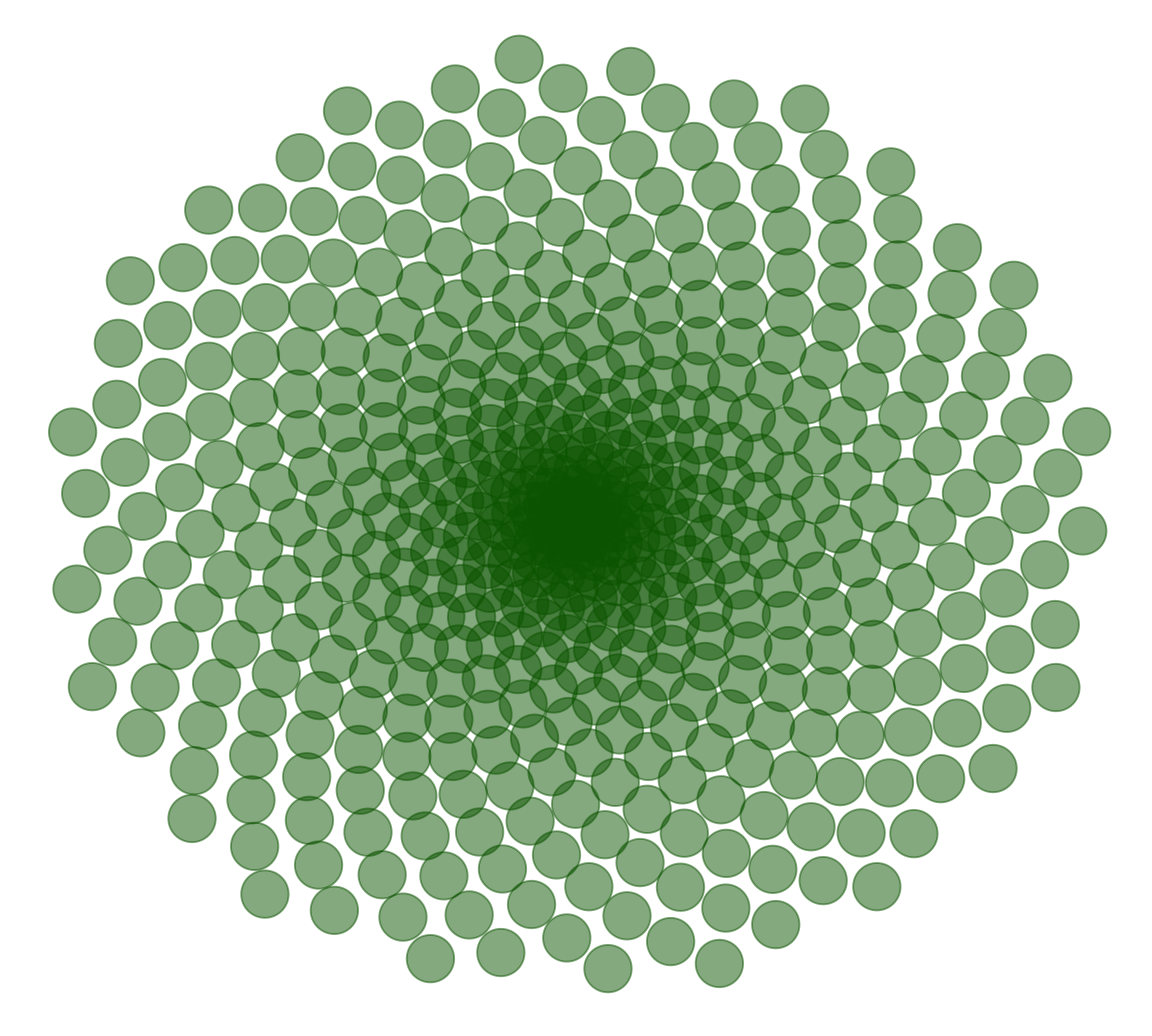
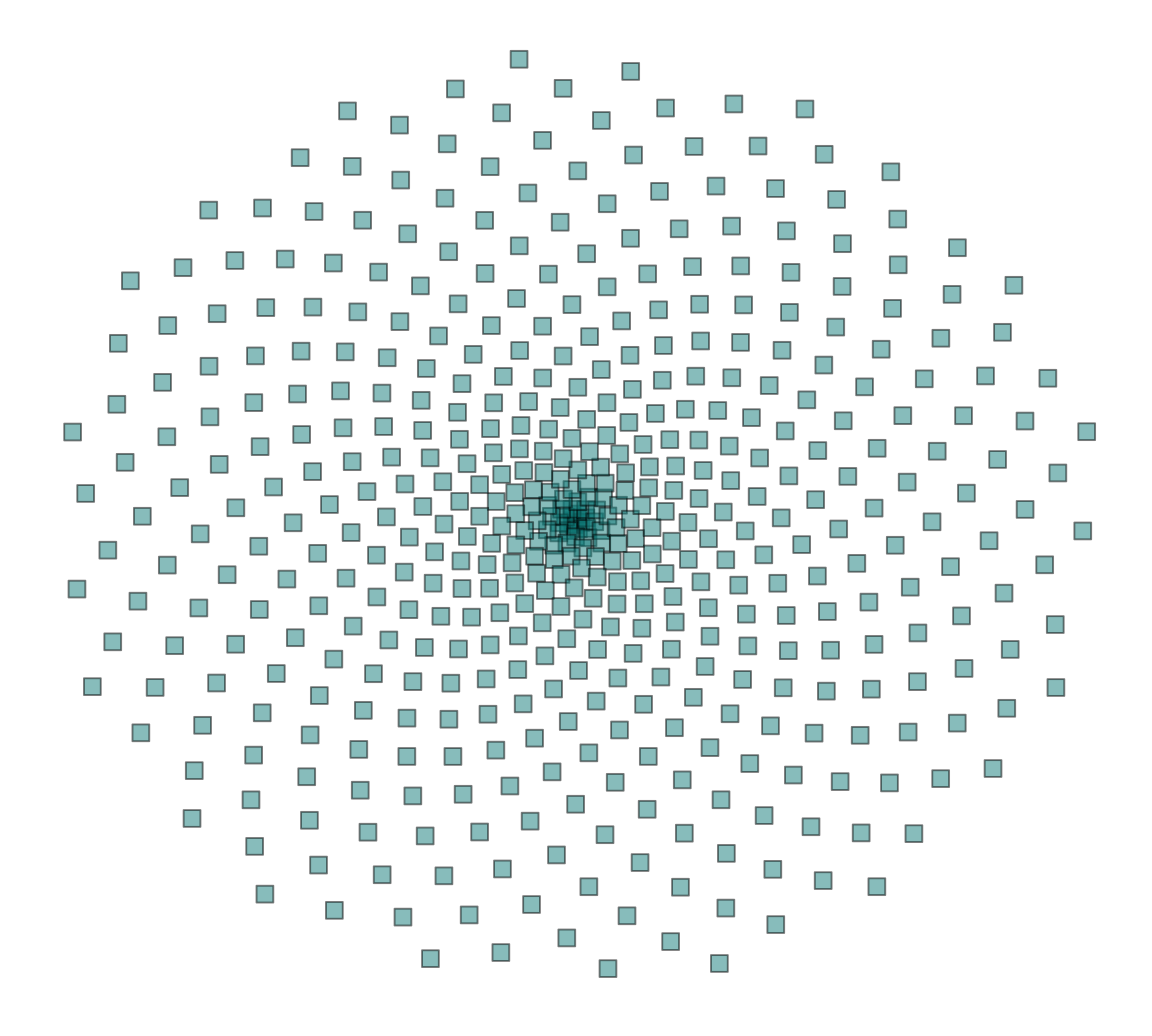
edits

diff --git a/flower.html b/flower.html
@@ -274,11 +274,14 @@ $(document).ready(function () {
 
 
 <p>For the love of arts, I’m going to make a flower in R.</p>
-<p>Let’s start by drawing 50 points on a circle of radius 1. As every (x, y) point should be in the unit circle, it follows that x² + y² = 1.We can get this using the Pythagorean trigonometric identity which states that sin²(θ) + cos²(θ) = 1 for any real number θ.</p>
-<pre class="r"><code>t &lt;- seq(0, 2*pi, length.out = 50)
+<p>Let’s start by drawing 50 points on a circle of radius 1. As every (x, y) point should be in the unit circle, it follows that x² + y² = 1. We can get this using the Pythagorean trigonometric identity which states that sin²(θ) + cos²(θ) = 1 for any real number θ.</p>
+<p>It is important to know that in <code>geom_point</code>, the size of the circles are related to the coordinate system and not to a separate scale. So you don’t specify the radius. We will how to radius later.</p>
+<pre class="r"><code>library(tidyverse)
+
+t &lt;- seq(0, 2*pi, length.out = 50)
 x &lt;- sin(t)
 y &lt;- cos(t)
-df &lt;- data.frame(t, x, y)
+df &lt;- tibble(t, x, y)
 
 # Make a scatter plot of points in a circle
 p &lt;- ggplot(df, aes(x, y))
@@ -286,9 +289,9 @@ p + geom_point()</code></pre>
 <p><img src="flower_files/figure-html/unnamed-chunk-1-1.png" width="80%" /></p>
 <div id="golden-angle" class="section level2">
 <h2>Golden Angle</h2>
-<p>Plants arrange their leaves in spirals. A spiral is a curve which starts from the origin and moves away from this point as it revolves around it. In the plot above all our points are at the same distance from the origin. A simple way to arrange them in a spiral is to multiply x and y by a factor which increases for each point. We could use t as that factor, as it meets these conditions, but we will do something more harmonious. We will use the Golden Angle:</p>
+<p>The arrangement of leaves and many other things in nature is spiral. Check out <a href="https://en.wikipedia.org/wiki/Patterns_in_nature">this</a> article on patterns in nature. A spiral starts from the origin and moves away from this point as it revolves around it. In the plot above all our points are at the same distance from the origin. A simple way to arrange them in a spiral is to multiply x and y by a factor which increases for each point. We could use t as that factor, as it meets these conditions, but we will do something more harmonious. We will use the Golden Angle:</p>
 <p><strong>Golden Angle = π(3 − √5)</strong></p>
-<p>This number is inspired by the Golden Ratio, one of the most famous numbers in the history of mathematics. Both the Golden Ratio and the Golden Angle appear in unexpected places in nature. Apart of flower petals and plant leaves, you’ll find them in seed heads, pine cones, sunflower seeds, shells, spiral galaxies, hurricanes, etc.</p>
+<p>This number is inspired by the <a href="https://en.wikipedia.org/wiki/Golden_ratio">Golden Ratio</a>, one of the most famous numbers in the history of mathematics. Apart of flower petals and plant leaves, you’ll find them in seed heads, pine cones, sunflower seeds, shells, spiral galaxies, hurricanes, etc.</p>
 <pre class="r"><code># Defining the number of points
 points = 500
 
@@ -338,56 +341,20 @@ p + geom_point() + theme(legend.position = &quot;none&quot;,
 </div>
 <div id="coloring" class="section level2">
 <h2>Coloring</h2>
-<p>Simply playing around the color schemes to get a good feel</p>
+<p>Simply playing around the <a href="http://sape.inf.usi.ch/quick-reference/ggplot2/colour">color schemes</a> and <a href="http://sape.inf.usi.ch/quick-reference/ggplot2/shape">shapes</a> to get a good feel.</p>
 <pre class="r"><code>p &lt;- ggplot(df, aes(x*t, y*t))
-p + geom_point(size = 8, alpha = 0.5, color = &quot;darkgreen&quot;) + theme(legend.position = &quot;none&quot;,
+p + geom_point(size = 3, alpha = 0.5, shape = 22, fill = &quot;darkcyan&quot;) + theme(legend.position = &quot;none&quot;,
         panel.grid = element_blank(),
         axis.title = element_blank(),
         axis.text = element_blank(),
         axis.ticks = element_blank(),
         panel.background = element_rect(fill = &#39;white&#39;))</code></pre>
 <p><img src="flower_files/figure-html/unnamed-chunk-5-1.png" width="80%" /></p>
-<p>Let’s play with the aesthetics to see how our flower changes</p>
-<pre class="r"><code>p &lt;- ggplot(df, aes(x*t, y*t))
-p + geom_point(aes(size = t), color = &#39;black&#39;, alpha = 0.5, shape = 8) + theme(legend.position = &quot;none&quot;,
-        panel.grid = element_blank(),
-        axis.title = element_blank(),
-        axis.text = element_blank(),
-        axis.ticks = element_blank(),
-        panel.background = element_rect(fill = &#39;white&#39;))</code></pre>
-<p><img src="flower_files/figure-html/unnamed-chunk-6-1.png" width="80%" /></p>
-<p>Let’s change the color of the points and the shape!</p>
-<pre class="r"><code>p &lt;- ggplot(df, aes(x*t, y*t))
-p + geom_point(aes(size = t), color = &#39;yellow&#39;, alpha = 0.5, shape = 17) + theme(legend.position = &quot;none&quot;,
-        panel.grid = element_blank(),
-        axis.title = element_blank(),
-        axis.text = element_blank(),
-        axis.ticks = element_blank(),
-        panel.background = element_rect(fill = &#39;darkmagenta&#39;))</code></pre>
-<p><img src="flower_files/figure-html/unnamed-chunk-7-1.png" width="80%" /></p>
 </div>
 <div id="angles" class="section level2">
 <h2>Angles</h2>
 <p>These patterns are very sensitive to the angle between the points that form the spiral; small changes to the angle can generate very different images</p>
-<pre class="r"><code>angle &lt;- 2.0
-points &lt;- 1000
-
-t &lt;- (1:points)*angle
-x &lt;- sin(t)
-y &lt;- cos(t)
-
-df &lt;- data.frame(t, x, y)
-
-p &lt;- ggplot(df, aes(x*t, y*t))
-
-p + geom_point(aes(size = t), color = &#39;yellow&#39;, alpha = 0.5, shape = 17) + theme(legend.position = &quot;none&quot;,
-        panel.grid = element_blank(),
-        axis.title = element_blank(),
-        axis.text = element_blank(),
-        axis.ticks = element_blank(),
-        panel.background = element_rect(fill = &#39;darkmagenta&#39;))</code></pre>
-<p><img src="flower_files/figure-html/unnamed-chunk-8-1.png" width="80%" /></p>
-<p>Let’s change the angle and increase the number of points from 1000 to 2000.</p>
+<p>Let’s change the angle and increase the number of points from to 2000.</p>
 <pre class="r"><code>angle &lt;-  pi/180
 points &lt;- 2000
 
@@ -405,8 +372,43 @@ p + geom_point(size= 80, color = &#39;magenta4&#39;, alpha = 0.1, shape = 1) + t
         axis.text = element_blank(),
         axis.ticks = element_blank(),
         panel.background = element_rect(fill = &#39;white&#39;))</code></pre>
+<p><img src="flower_files/figure-html/unnamed-chunk-6-1.png" width="80%" /></p>
+</div>
+<div id="other-options" class="section level2">
+<h2>Other options</h2>
+<p>If we wanted to specify the radius we can use <code>geom_circle</code> which is in the <code>ggforce</code> package. For example, we could specify a circle with start coordinates of (3,4) and radius of 1.</p>
+<pre class="r"><code>library(ggforce)
+# Lets make some data
+circles &lt;- tibble(x0 = 3, y0 = 4,r = 1)
+
+# Behold the some circles
+ggplot() + geom_circle(aes(x0 = x0, y0 = y0, r = r), data = circles)</code></pre>
+<p><img src="flower_files/figure-html/unnamed-chunk-7-1.png" width="80%" /></p>
+Let’s draw many circles and make some cool stuff! You can find the original mathematical formula I used to create the dataset <a href="https://www.huffingtonpost.com/hamid-naderi-yeganeh/flowers_b_9817126.html">here</a>. I modified a bit.
+<p>
+<p>Let’s use <code>geom_point</code> first for the sake of comparison. Remember, the size of the circles are related to the coordinate system and not to a separate scale.</p>
+<pre class="r"><code>df_ggf = tibble(circle = seq(1:2500),
+            x = cos((14 * pi * circle) / 2500) * (1 - (3/4)*(sin((20 * pi * circle) / 2500))^4 - (1/4)*(cos((60 * pi * circle) / 2500)) ^ 3),
+            y = sin(14 * pi * circle/2500)*(1 - (3/4)*(sin(20*pi*circle/2500)) ^ 4 - (1/4)*(cos(60 * pi*circle/2500)) ^ 3),
+            r = (1/120) + (1/18)*(sin(60 * pi * circle/2500))^4 + (1/18)*(sin(160*pi*circle/2500))^4)
+
+ggplot(df_ggf, aes(x, y)) + geom_point() + theme(legend.position = &quot;none&quot;,
+        panel.grid = element_blank(),
+        axis.title = element_blank(),
+        axis.text = element_blank(),
+        axis.ticks = element_blank(),
+        panel.background = element_rect(fill = &#39;white&#39;))</code></pre>
+<p><img src="flower_files/figure-html/unnamed-chunk-8-1.png" width="80%" /></p>
+<p>With the same dataset, let’s how to render it using <code>geom_circle</code>. Here, we many many different cirles put together. Every observation is a circle.</p>
+<pre class="r"><code>ggplot() + geom_circle(aes(x0 = x, y0 = y, r = r, fill = r), data = df_ggf) +
+  theme(legend.position = &quot;none&quot;,
+        panel.grid = element_blank(),
+        axis.title = element_blank(),
+        axis.text = element_blank(),
+        axis.ticks = element_blank(),
+        panel.background = element_rect(fill = &#39;white&#39;)) + viridis::scale_fill_viridis()</code></pre>
 <p><img src="flower_files/figure-html/unnamed-chunk-9-1.png" width="80%" /></p>
-<p>More fun with angles!</p>
+<p>Now that was a detour. Let’s get back to our original flower. Let’s have some more fun with angles!</p>
 <pre class="r"><code>angle &lt;- 12 * pi/180
 points &lt;- 2000
 
